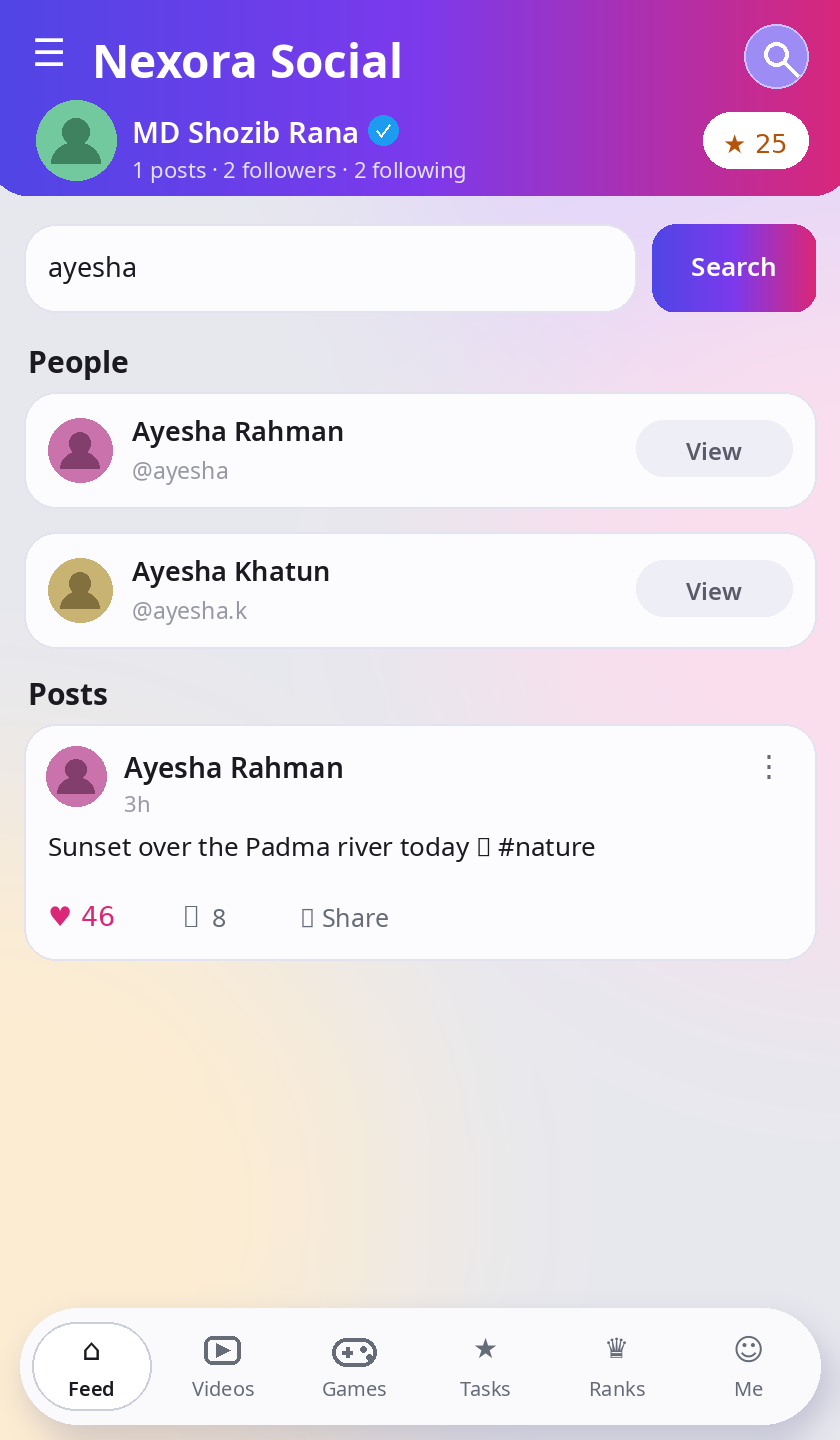
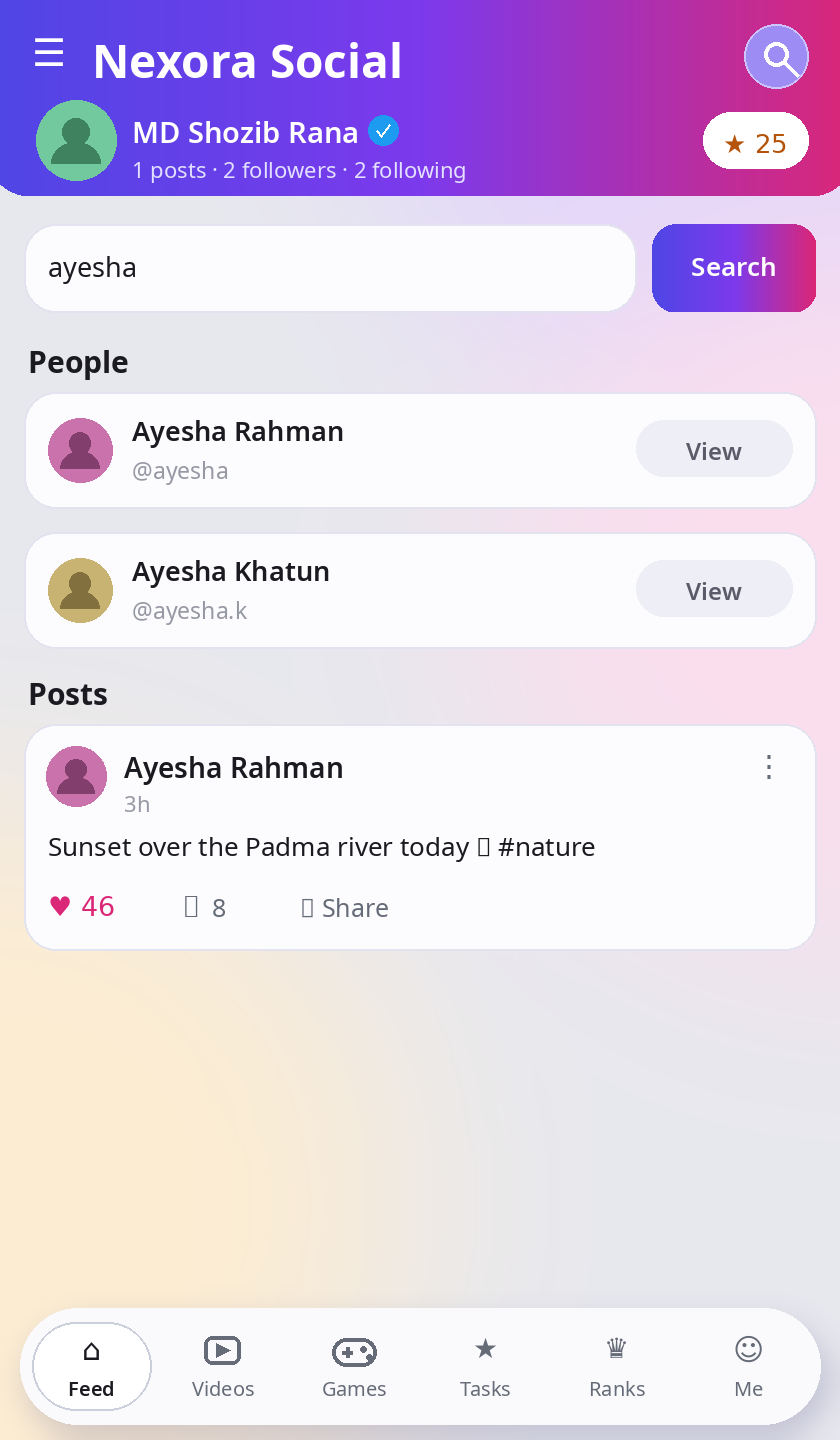
Social-size 4:5 post media + full GlassMorphism design system

Changed region(s): [[0.031, 0.625, 0.4643, 0.6875], [0.9286, 0.6562, 0.9595, 0.6875]]

diff --git a/code/webapp/style.css b/code/webapp/style.css
@@ -454,3 +454,80 @@ button.wide {
               inset 0 1px 0 #ffffff;
 }
 body { padding-bottom: 96px; }
+
+/* ==========================================================================
+   GlassMorphism design system + social-size post media (owner request,
+   Oct 31): one glass recipe for every surface, and post photos/videos in
+   the 4:5 social feed frame (1080x1350 standard).
+   ========================================================================== */
+:root {
+  --glass-bg: rgba(255,255,255,.48);
+  --glass-brd: rgba(255,255,255,.65);
+  --glass-blur: blur(18px) saturate(1.5);
+  --glass-shadow: 0 8px 32px rgba(31,38,135,.14),
+                  inset 0 1px 0 rgba(255,255,255,.75);
+}
+.post, .card, .task-card, .mon-card, .rank-row, .game-card, .user-row {
+  background: var(--glass-bg);
+  -webkit-backdrop-filter: var(--glass-blur);
+  backdrop-filter: var(--glass-blur);
+  border: 1px solid var(--glass-brd);
+  box-shadow: var(--glass-shadow);
+}
+.hero .icon-btn {
+  background: rgba(255,255,255,.20);
+  -webkit-backdrop-filter: blur(8px);
+  backdrop-filter: blur(8px);
+  border: 1px solid rgba(255,255,255,.35);
+  border-radius: 50%;
+  box-shadow: inset 0 1px 0 rgba(255,255,255,.4);
+}
+.tabs {
+  background: rgba(255,255,255,.38);
+  -webkit-backdrop-filter: var(--glass-blur);
+  backdrop-filter: var(--glass-blur);
+  border: 1px solid rgba(255,255,255,.5);
+  box-shadow: inset 0 1px 0 rgba(255,255,255,.6);
+}
+.chip {
+  background: rgba(124,58,237,.10);
+  -webkit-backdrop-filter: blur(6px);
+  backdrop-filter: blur(6px);
+  border: 1px solid rgba(124,58,237,.18);
+}
+.searchbar input, .composer textarea {
+  background: rgba(255,255,255,.45);
+  -webkit-backdrop-filter: blur(10px);
+  backdrop-filter: blur(10px);
+  border: 1px solid rgba(255,255,255,.6);
+  box-shadow: inset 0 1px 0 rgba(255,255,255,.7);
+}
+.post-media {
+  position: relative; margin-top: 10px;
+  aspect-ratio: 4 / 5; border-radius: 16px; overflow: hidden;
+  background: rgba(24,18,46,.08);
+  border: 1px solid rgba(255,255,255,.55);
+  box-shadow: 0 6px 22px rgba(31,38,135,.14),
+              inset 0 1px 0 rgba(255,255,255,.6);
+}
+.post-media img, .post-media video {
+  width: 100%; height: 100%; object-fit: cover; display: block;
+  margin: 0; border-radius: 0;
+}
+.post-media .play-badge {
+  position: absolute; top: 50%; left: 50%;
+  transform: translate(-50%, -50%);
+  width: 62px; height: 62px; border-radius: 50%;
+  display: flex; align-items: center; justify-content: center;
+  font-size: 22px; color: #fff; padding-left: 4px; cursor: pointer;
+  background: rgba(20,16,40,.38);
+  -webkit-backdrop-filter: blur(8px) saturate(1.4);
+  backdrop-filter: blur(8px) saturate(1.4);
+  border: 1px solid rgba(255,255,255,.55);
+  box-shadow: 0 8px 24px rgba(10,8,30,.35),
+              inset 0 1px 0 rgba(255,255,255,.5);
+}
+.game-card .g-play, .task-card .claim, button.wide {
+  -webkit-backdrop-filter: blur(10px);
+  backdrop-filter: blur(10px);
+}

diff --git a/code/webapp/app.js b/code/webapp/app.js
@@ -94,17 +94,34 @@ function postCard(p) {
   el.appendChild(head);
 
   if (p.media_file_id && p.type === "photo") {
+    // Social-media frame: 4:5 portrait (the Instagram/Facebook feed
+    // standard, 1080x1350). Display crop only — the original file in
+    // Telegram is never touched.
+    const frame = document.createElement("div");
+    frame.className = "post-media";
     const img = document.createElement("img");
     img.src = "/media/" + encodeURIComponent(p.media_file_id);
     img.loading = "lazy";
     img.alt = "photo";
-    el.appendChild(img);
+    frame.appendChild(img);
+    el.appendChild(frame);
   } else if (p.media_file_id && p.type === "video") {
+    const frame = document.createElement("div");
+    frame.className = "post-media";
     const vid = document.createElement("video");
     vid.src = "/media/" + encodeURIComponent(p.media_file_id);
     vid.controls = true;
     vid.preload = "metadata";
-    el.appendChild(vid);
+    vid.playsInline = true;
+    frame.appendChild(vid);
+    const playBadge = document.createElement("div");
+    playBadge.className = "play-badge";
+    playBadge.textContent = "▶";
+    playBadge.onclick = () => { vid.play(); };
+    vid.onplay = () => { playBadge.style.display = "none"; };
+    vid.onpause = () => { playBadge.style.display = ""; };
+    frame.appendChild(playBadge);
+    el.appendChild(frame);
   }
 
   if (p.caption) {

diff --git a/preview_src/draw_all.py b/preview_src/draw_all.py
@@ -175,7 +175,8 @@ def wrap(d, s, f, maxw):
 def post_card(img, y, author, hue, when, caption, photo_scene=None,
               likes="12", comments="3", liked=False, verified=False, photo_av=False):
     d = ImageDraw.Draw(img)
-    h = 118 if not photo_scene else 268
+    lines = wrap(d, caption, F("Regular", 13), 360)[:2]
+    h = 52 + (404 if photo_scene else 0) + 19 * len(lines) + 42
     card(d, 12, y, 408, y + h)
     avatar(d, 38, y + 26, 15, author, hue, photo=photo_av)
     text(d, 62, y + 12, author, F("SemiBold", 14))
@@ -185,16 +186,16 @@ def post_card(img, y, author, hue, when, caption, photo_scene=None,
     text(d, 62, y + 32, when, F("Regular", 11), FAINT)
     text(d, 392 - tw(d, "⋮", D(15)), y + 12, "⋮", D(15), GREY)
     cy = y + 52
-    for ln in wrap(d, caption, F("Regular", 13), 360)[:2]:
+    if photo_scene:
+        sy = cy + 2
+        d.rounded_rectangle([54 * S, sy * S, 366 * S, (sy + 390) * S], radius=12 * S, fill=photo_scene[0])
+        d.ellipse([282 * S, (sy + 34) * S, 330 * S, (sy + 82) * S], fill=(255, 224, 130))
+        d.polygon([54 * S, (sy + 390) * S, 160 * S, (sy + 240) * S, 250 * S, (sy + 390) * S], fill=photo_scene[1])
+        d.polygon([170 * S, (sy + 390) * S, 300 * S, (sy + 200) * S, 366 * S, (sy + 300) * S, 366 * S, (sy + 390) * S], fill=photo_scene[2])
+        cy = sy + 404
+    for ln in lines:
         text(d, 24, cy, ln, F("Regular", 13))
         cy += 19
-    if photo_scene:
-        sy = cy + 4
-        d.rounded_rectangle([24 * S, sy * S, 396 * S, (sy + 128) * S], radius=10 * S, fill=photo_scene[0])
-        d.ellipse([300 * S, (sy + 16) * S, 336 * S, (sy + 52) * S], fill=(255, 224, 130))
-        d.polygon([(24) * S, (sy + 128) * S, (130) * S, (sy + 58) * S, (230) * S, (sy + 128) * S], fill=photo_scene[1])
-        d.polygon([(150) * S, (sy + 128) * S, (270) * S, (sy + 44) * S, (396) * S, (sy + 128) * S], fill=photo_scene[2])
-        cy = sy + 138
     ay = y + h - 30
     text(d, 24, ay, ("♥ " if liked else "♡ ") + likes, D(13.5), PINK if liked else GREY)
     text(d, 92, ay, "💬", D(12), GREY)
@@ -264,7 +265,7 @@ def entry_signup():
 
 # --------------------------------------------------------------------- FEED --
 def feed():
-    H = 860
+    H = 1090
     img = page_bg(H)
     y = hero(img)
     d = ImageDraw.Draw(img)
@@ -452,7 +453,7 @@ def me_page():
 
 # ------------------------------------------------------------- OTHER PROFILE --
 def profile_page():
-    H = 760
+    H = 1010
     img = page_bg(H)
     y = hero(img)
     d = ImageDraw.Draw(img)
@@ -575,7 +576,7 @@ def share_picker():
 
 # ------------------------------------------------------------- SAVED/SHARED --
 def saved():
-    H = 700
+    H = 930
     img = page_bg(H)
     y = hero(img)
     d = ImageDraw.Draw(img)
@@ -596,7 +597,7 @@ def saved():
 
 
 def shared():
-    H = 700
+    H = 930
     img = page_bg(H)
     y = hero(img)
     d = ImageDraw.Draw(img)

diff --git a/code/test_phase14.py b/code/test_phase14.py
@@ -1,0 +1,33 @@
+"""Phase-14 tests: social-size post media + GlassMorphism system —
+feed media is wrapped in the 4:5 .post-media frame (with a glass play
+badge for videos), and the stylesheet carries the glass design tokens."""
+import hashlib, hmac, json, os, urllib.parse
+
+os.environ["BOT_TOKEN"] = "123456789:AAE" + "x" * 32
+os.environ["BOT_USERNAME"] = "NexoraSocial_bot"
+os.environ["DATABASE_URL"] = "sqlite:///./test_phase14.db"
+
+import app.bot as bot_mod
+
+async def _no_poll(app):
+    return None
+
+bot_mod.start_bot = _no_poll
+
+from fastapi.testclient import TestClient
+from app.main import app
+
+with TestClient(app) as c:
+    css = c.get("/webapp/style.css").text
+    for marker in ("--glass-bg", "--glass-blur", "aspect-ratio: 4 / 5",
+                   ".post-media", ".play-badge", "object-fit: cover",
+                   "blur(18px) saturate(1.5)"):
+        assert marker in css, marker
+    print("glass tokens + 4:5 media frame styles OK")
+
+    js = c.get("/webapp/app.js").text
+    assert 'className = "post-media"' in js
+    assert 'className = "play-badge"' in js
+    print("media framing logic OK")
+
+print("PHASE-14 TESTS PASSED")

diff --git a/PRD_Telegram_Social_Platform_BN.md b/PRD_Telegram_Social_Platform_BN.md
@@ -166,3 +166,5 @@
 **সংযোজন (মালিক, ৩১ অক্টোবর রাত):** (১) **Sign Up / Login এন্ট্রি স্ক্রিন** — মালিকের দেওয়া স্ক্রিনশটের Neumorphic ডিজাইনে (হালকা ধূসর ব্যাকগ্রাউন্ড, বড় গোল নরম-ছায়ার ডিস্ক, ভিতরে-বসানো ফিল্ড, লাল টগল লিংক)। নতুন ইউজার দেখে Sign Up (Full name + Username + CREATE ACCOUNT), পুরনো ইউজার দেখে Login (Username + Remember me + SIGN IN); নিচের লিংকে দুটো স্ক্রিন বদলানো যায়। Telegram Mini App-এ পাসওয়ার্ড নেই — Telegram-ই নিরাপদ লগইন, তাই ফিল্ডে ইউজারের আসল নাম/ইউজারনেম অটো বসে, শেষ ফিল্ডে "Telegram secure login"। Remember me ON থাকলে পরের বার স্ক্রিন স্কিপ হয়। (২) **পুরো অ্যাপে Clean AI Glass Effect** — হালকা গ্র্যাডিয়েন্ট-ওয়াশ ব্যাকগ্রাউন্ডের ওপর সব কার্ড, হিরো, বটম ন্যাভ, ট্যাব frosted glass (backdrop blur + অর্ধস্বচ্ছ সাদা + নরম ছায়া)।
 
 **সংযোজন (মালিক, ৩১ অক্টোবর রাত):** (১) **সাইড ড্রয়ার মেনু** — মালিকের দেওয়া Netflix-স্টাইল প্যানেল ডিজাইনে: ওপরের ☰ বাটনে খোলে; হেডারে লোগো + Nexora Social + CONNECT ANYWHERE + বন্ধের ‹ বাটন; Menu (Home/Videos/Games/Daily Tasks/Leaderboard — চলতি পেজ গ্র্যাডিয়েন্ট পিলে), Library (Saved ও Shared with me — লাল সংখ্যা-ব্যাজসহ), Account (My Profile/Search/Log out — Log out চাপলে আবার Login স্ক্রিন আসে)। (২) **বটম ন্যাভ ক্যাপসুল স্টাইলে** — মালিকের দ্বিতীয় স্ক্রিনশটের মতো ভাসমান গোল পিল বার; চলতি ট্যাব সাদা উঠে-থাকা (raised glossy) পিলে।
+
+**সংযোজন (মালিক, ৩১ অক্টোবর রাত):** (১) **পোস্ট মিডিয়া সোশ্যাল সাইজে** — ফিডে ছবি ও ভিডিও এখন 4:5 পোর্ট্রেট ফ্রেমে (1080×1350 সোশ্যাল স্ট্যান্ডার্ড), মাঝখান থেকে ক্রপ-ডিসপ্লে (আসল ফাইল অক্ষত), ভিডিওর ওপরে গ্লাস প্লে-বাটন; রিলস আগের মতোই ফুল-স্ক্রিন 9:16। (২) **GlassMorphism ডিজাইন সিস্টেম** — পুরো UI-তে একটাই গ্লাস রেসিপি (CSS ভেরিয়েবল): 18px blur + saturation, অর্ধস্বচ্ছ সাদা, হাইলাইট বর্ডার ও নরম ছায়া — পোস্ট কার্ড, কম্পোজার, সার্চ, ট্যাব, চিপ, টাস্ক, লিডারবোর্ড, গেম কার্ড, হিরো বাটন সবখানে।
